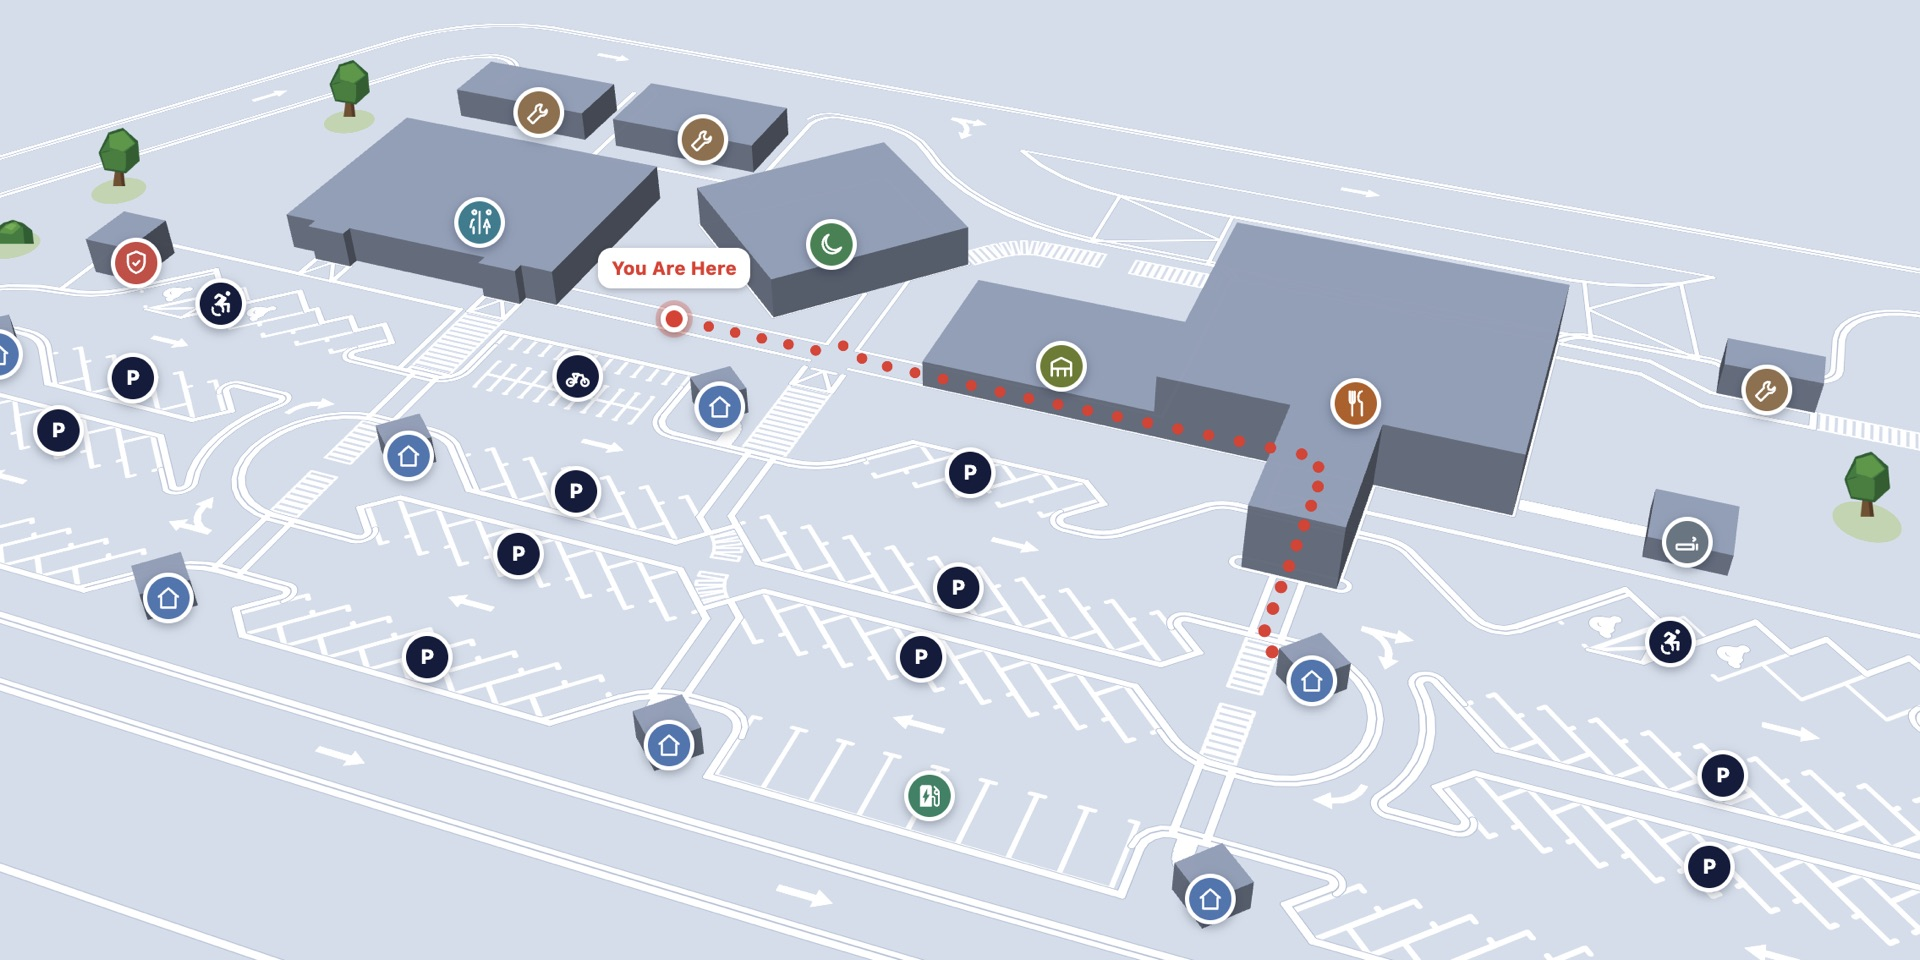
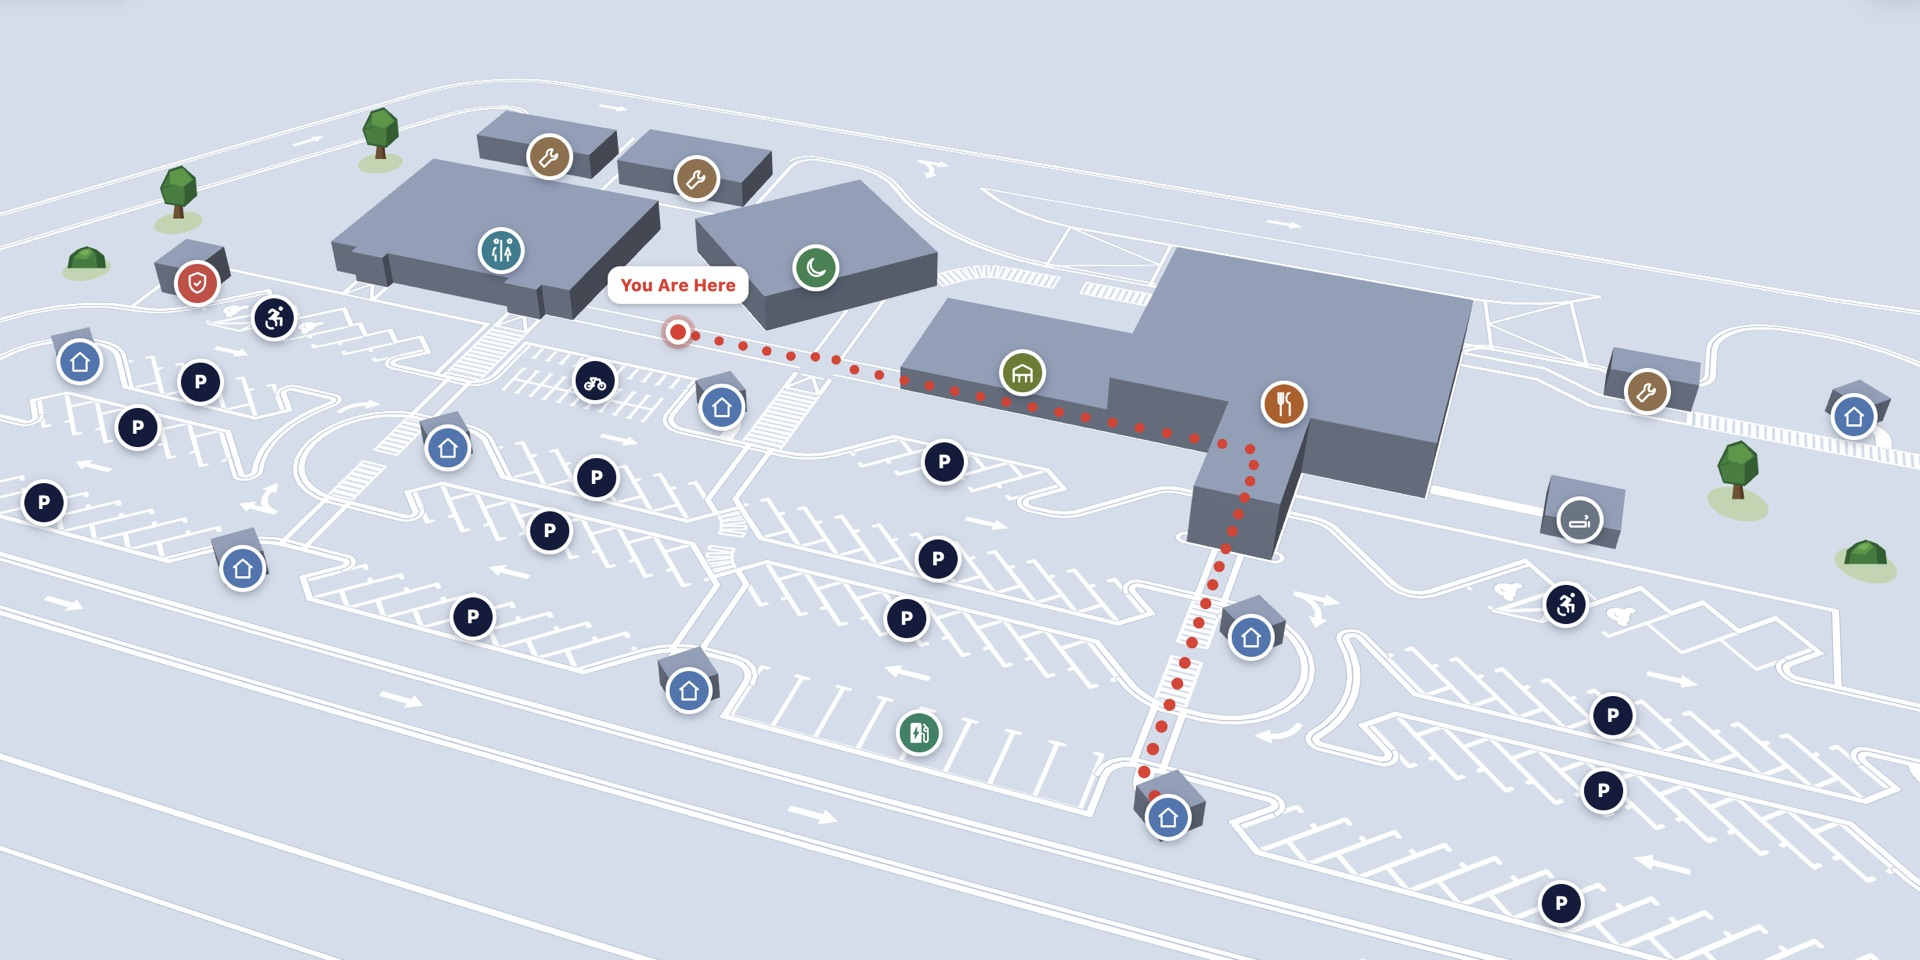
Install Ashley's three 2:1 captures, and make 2:1 a contract
All three arrived already at 2:1 (2452x1226, 2940x1470, 2554x1277), so nothing
was cropped — only resampled to 1920x960. SplitWise gains the complete velocity
chart, which the earlier crop had clipped. Two alt texts were rewritten because
they described the images they replaced: SplitWise's cited a final time and
underwater count from a summary bar this capture does not include, so it now
cites 24.10s from the table row where it is actually visible.

The new test checks two different things, and both were verified to fail when
broken rather than assumed to work. The ratio check guards the sheet's visual
argument: six frames at one ratio is why the set reads as a set. The
intrinsic-size check guards against layout shift — height:auto on .figbox img
means the browser reserves space from the width and height attributes and then
re-lays-out to the file's real ratio, so disagreement is a visible jump on load.
A figure declared 1600x800 against a 1920x960 file passes the first check and
fails the second, which is exactly the case that would otherwise ship unnoticed.

Intrinsic sizes are read straight out of the PNG and JPEG headers, since Node
ships no image decoder and this repository takes no dependencies.

diff --git a/index.html b/index.html
@@ -637,8 +637,8 @@
             Teams submit before the meeting, an admin reviews and records it, minutes are generated
             against a template, and everything is exported and kept searchable afterwards.</p>
           <div class="figbox" tabindex="0" role="group" aria-label="Figure 5, scrollable">
-            <img class="fig" width="1632" height="816" src="assets/images/quorum-pre-meeting-submission.png"
-              alt="Quorum&rsquo;s admin console, running. A &ldquo;Record the meeting&rdquo; panel selects a microphone and starts a recording, noting that an in-person meeting is captured from the mic while an online call is imported instead. Below it, the &ldquo;Meeting content&rdquo; panel holds a pre-meeting submission, marked &ldquo;Saved&rdquo; and flagged as editable only by this admin: a Markdown pane on the left and its rendered preview on the right, both showing the same agenda headings.">
+            <img class="fig" width="1920" height="960" src="assets/images/quorum-pre-meeting-submission.png"
+              alt="Quorum&rsquo;s admin console, running, with links to meeting history and a member view. A &ldquo;Record the meeting&rdquo; panel selects a microphone and starts a recording, noting that an in-person meeting is captured from the mic while an online call is imported instead. Below it the &ldquo;Meeting content&rdquo; panel holds a pre-meeting submission, marked &ldquo;Saved&rdquo; and flagged as editable only by this admin: a Markdown pane on the left and its rendered preview on the right, both showing the same agenda headings. A submission status row at the foot is switched to &ldquo;Submitted&rdquo;.">
             <div class="figcap"><span>Fig. 05.5 &mdash; Pre-meeting submission, captured</span><span>Live application</span></div>
           </div>
           <button class="more" type="button" data-more="p5" aria-controls="p5" data-label="05.5" aria-expanded="true">Close detail &mdash; 05.5</button>
@@ -668,7 +668,7 @@
             whether a race went well.</p>
           <div class="figbox" tabindex="0" role="group" aria-label="Figure 6, scrollable">
             <img class="fig" width="1920" height="960" src="assets/images/splitwise-split-analysis.png"
-              alt="SplitWise Swim analysing one real 50m freestyle swim of 24.10 seconds with four underwater strokes. A breakdown table gives each of the four split distances &mdash; 15m, 25m, 35m and 50m &mdash; its cumulative time, split time, velocity, cumulative stroke count and stroke rate. Below it a velocity chart plots those four splits against a dashed average of 2.134 metres per second, showing a fast first split off the dive, a drop through the middle and a partial recovery.">
+              alt="SplitWise Swim analysing one real 50m freestyle swim. A breakdown table gives each of the four split distances &mdash; 15m, 25m, 35m and 50m &mdash; its cumulative time, split time, velocity, cumulative stroke count and stroke rate, finishing at 24.10 seconds and 40 strokes. Below it a velocity chart plots those four splits against a dashed average of 2.134 metres per second: 2.83 off the dive, down to 1.79, recovering to 2.17, then 1.74 into the finish.">
             <div class="figcap"><span>Fig. 05.6 &mdash; Split analysis, captured</span><span>Live application</span></div>
           </div>
           <button class="more" type="button" data-more="p6" aria-controls="p6" data-label="05.6" aria-expanded="true">Close detail &mdash; 05.6</button>
